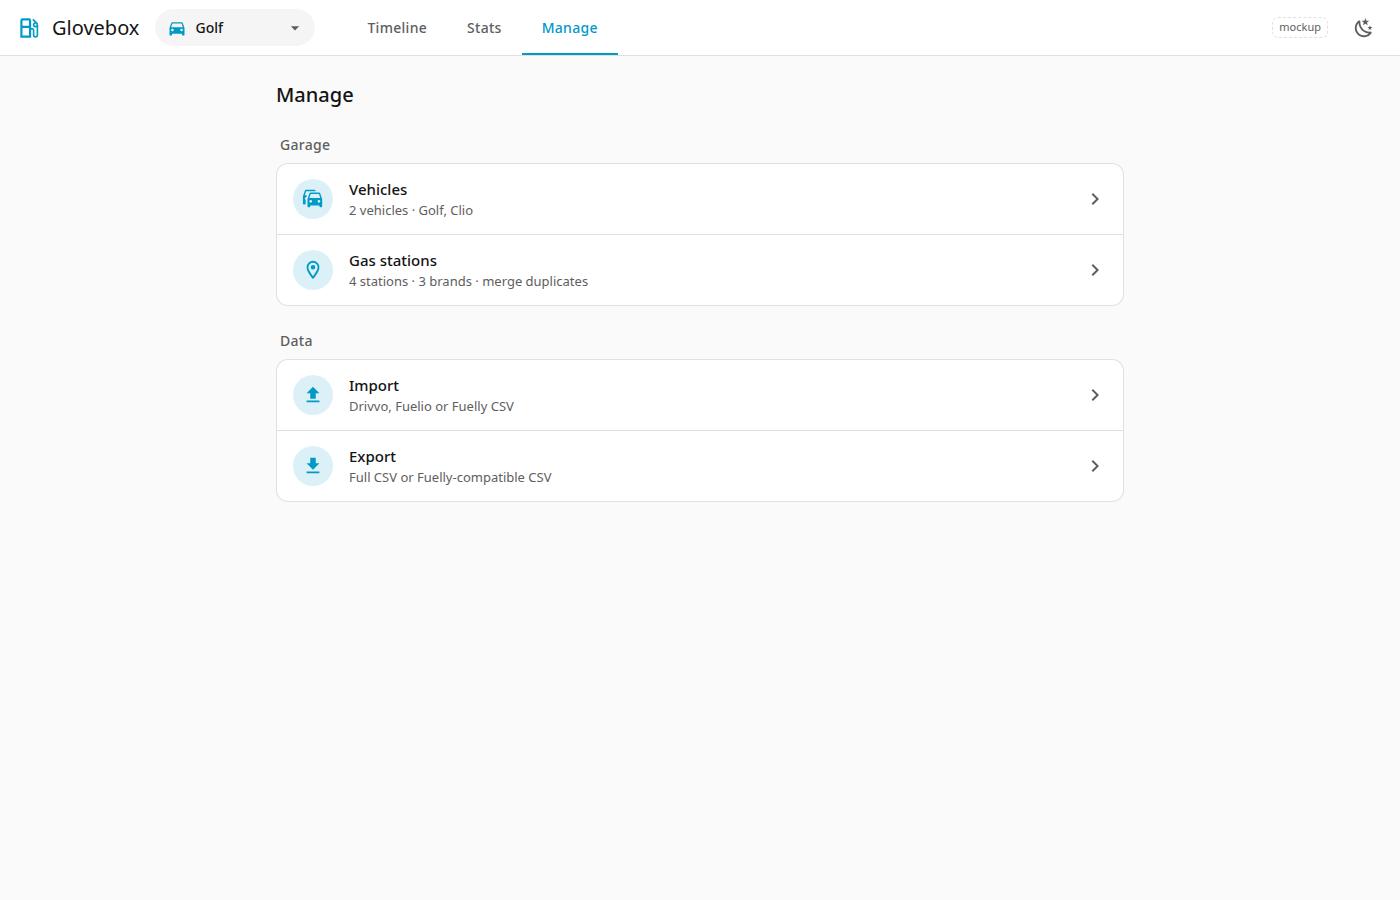
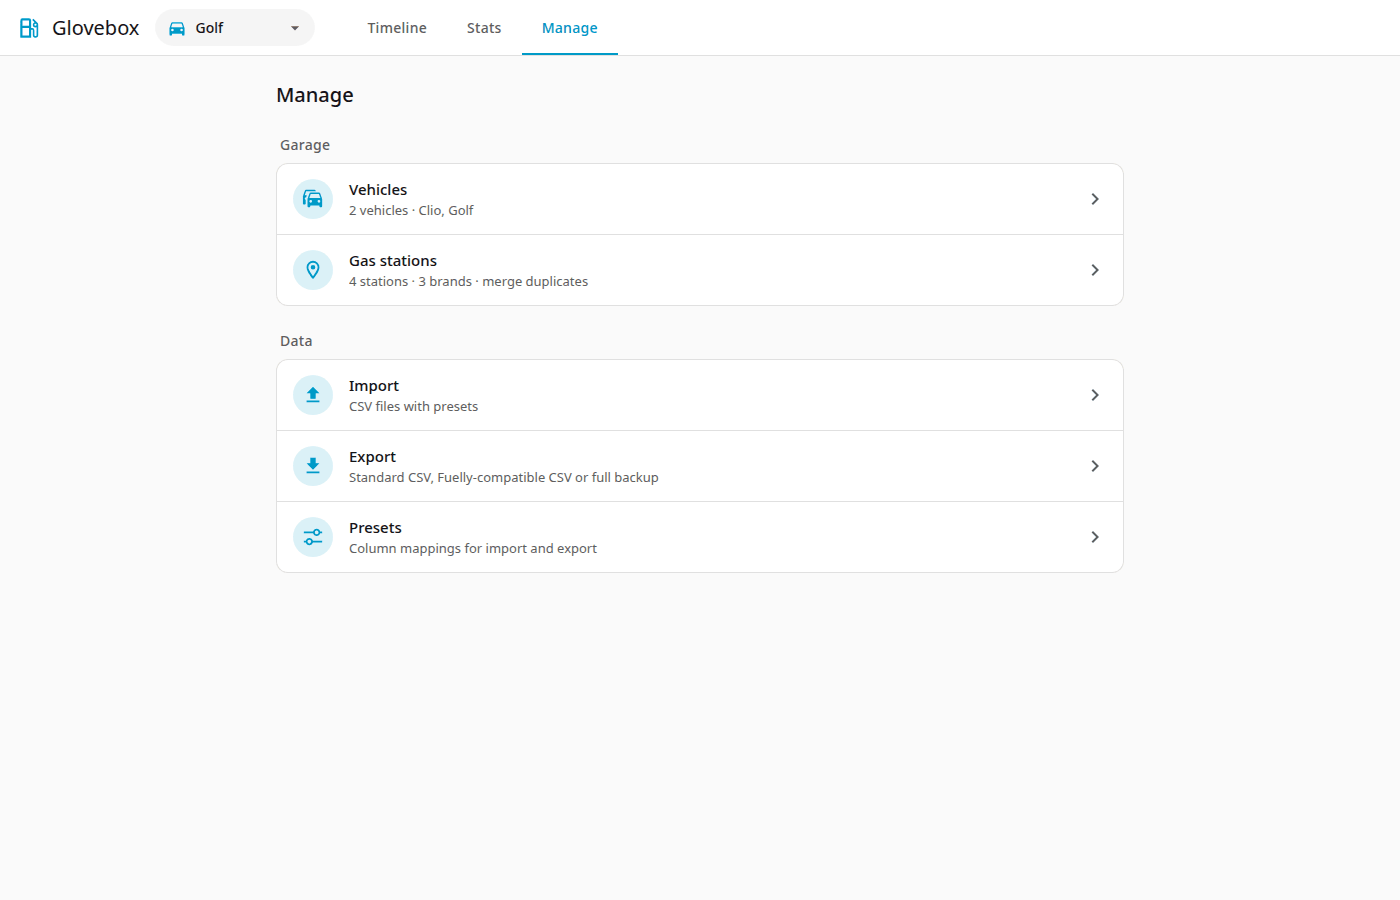
README, docs and screenshots for 0.2.0

Changed region(s): [[0.1843, 0.5289, 0.4607, 0.6222], [0.2457, 0.4356, 0.3686, 0.4667], [0.3071, 0.2178, 0.3379, 0.2489]]

diff --git a/src/glovebox/web/templates/presets/index.html b/src/glovebox/web/templates/presets/index.html
@@ -37,6 +37,6 @@
     <label for="i-file">Preset file (TOML)</label>
     <input id="i-file" type="file" name="file" accept=".toml,text/plain" required>
   </div>
-  <div><button type="submit" class="btn primary">{{ icon('upload', 18) }}Upload preset</button></div>
+  <div><button type="submit" class="btn primary with-icon">{{ icon('upload', 18) }}Upload preset</button></div>
 </form>
 {% endblock %}

diff --git a/src/glovebox/formatdocs.py b/src/glovebox/formatdocs.py
@@ -247,7 +247,7 @@ def render_presets_markdown() -> str:
         "A preset describes how one CSV layout maps onto the standard fields: "
         "which source column feeds which field, and how dates, numbers and "
         "units are written. Presets are TOML files. You can create and edit "
-        "them in the app (**Manage → Import**); this page lists every key and "
+        "them in the app (**Manage → Presets**; a mapping is saved from the import preview); this page lists every key and "
         "the presets that ship with Glovebox. For the target fields see "
         "[Standard CSV format](standard-format.md).",
         "",

diff --git a/README.md b/README.md
@@ -1,12 +1,45 @@
+<p align="center"><img src="addon/glovebox/icon.png" alt="Glovebox" width="96" height="96"></p>
+
 # Glovebox
 
-Self-hosted tracker for car running costs (fuel, maintenance, insurance and registration) with statistics, CSV import (Drivvo, Fuelio, Fuelly) and export. Runs as a Home Assistant add-on or as a standalone Docker container.
+**Self-hosted tracker for what your cars cost to run: fuel, service, insurance and registration, with statistics.**
+
+[![Tests](https://github.com/domengorjup/glovebox/actions/workflows/tests.yml/badge.svg)](https://github.com/domengorjup/glovebox/actions/workflows/tests.yml)
+[![Docs](https://github.com/domengorjup/glovebox/actions/workflows/docs.yml/badge.svg)](https://github.com/domengorjup/glovebox/actions/workflows/docs.yml)
+[![Licence: MIT](https://img.shields.io/github/license/domengorjup/glovebox)](LICENSE)
+[![Latest release](https://img.shields.io/github/v/tag/domengorjup/glovebox?label=release)](https://github.com/domengorjup/glovebox/tags)
+
+Documentation: **<https://domengorjup.github.io/glovebox/>**
+
+<p align="center">
+  <img src="docs/assets/screenshots/timeline-all-desktop-light.png" alt="Glovebox Timeline on a desktop" width="62%">
+  <img src="docs/assets/screenshots/timeline-all-phone-light.png" alt="Glovebox Timeline on a phone" width="22%">
+</p>
+<p align="center">
+  <img src="docs/assets/screenshots/timeline-all-desktop-dark.png" alt="Glovebox Timeline, dark theme" width="62%">
+</p>
+<p align="center">
+  <img src="docs/assets/screenshots/stats-desktop-light.png" alt="Glovebox Stats" width="48%">
+  <img src="docs/assets/screenshots/stats-desktop-dark.png" alt="Glovebox Stats, dark theme" width="48%">
+</p>
+
+## Features
+
+- Refuelling, service and other expenses (insurance, registration, parking) for any number of vehicles.
+- Statistics: consumption between full tanks, cost per km, monthly costs, price comparison by gas station and brand.
+- Configurable CSV import: a column mapping step with presets (Fuelly, Fuelio, Drivvo, your own), a preview before anything is written, and undo per import.
+- A documented standard CSV format, a Fuelly-compatible export and a full backup ZIP.
+- Looks like Home Assistant and follows its light and dark theme; opens in the sidebar through Ingress, no separate login.
+- Read-only stats API for Home Assistant sensors.
+- Runs as a Home Assistant add-on or as a standalone Docker container; the data is one SQLite file.
 
 ## Install as a Home Assistant add-on
 
-1. Settings, Add-ons, Add-on store, menu, Repositories: add this repository's URL.
-2. Install "Glovebox". The image is built locally on the HA host from `addon/glovebox/Dockerfile`.
-3. Start it and enable "Show in sidebar".
+[![Add the repository to Home Assistant](https://my.home-assistant.io/badges/supervisor_add_addon_repository.svg)](https://my.home-assistant.io/redirect/supervisor_add_addon_repository/?repository_url=https%3A%2F%2Fgithub.com%2Fdomengorjup%2Fglovebox)
+
+Press the button, or add the repository by hand: **Settings > Add-ons > Add-on store > menu (three dots) > Repositories**, paste `https://github.com/domengorjup/glovebox` and click **Add**. In Home Assistant 2026.6 and later add-ons are called apps: **Settings > Apps > Install app > menu > Repositories**.
+
+Then install **Glovebox** (the image is built on your Home Assistant host, so the first install takes a few minutes), start it and enable **Show in sidebar**.
 
 Options and details: [addon/glovebox/DOCS.md](addon/glovebox/DOCS.md).
 
@@ -38,7 +71,7 @@ Without `GLOVEBOX_PASSWORD` there is no login: put a reverse proxy in front if t
 
 ## Import notes
 
-Import and export are on their own pages. Files without a vehicle name ask which vehicle to use. For Fuelly files the `tags` column is imported as the gas station name. Re-importing a file is a no-op and each import can be undone.
+Import is under Manage, Import (upload, map columns, preview, confirm); export is under Manage, Export. Files without a vehicle name ask which vehicle to use. For Fuelly files the `tags` column is imported as the gas station name. Re-importing a file is a no-op and each import can be undone.
 
 ## Backup and restore
 

diff --git a/docs/user/import.md b/docs/user/import.md
@@ -2,18 +2,22 @@
 
 Go to **Manage → Import**.
 
-![Import preview](../assets/screenshots/import-preview-desktop-light.png)
+![Import preview](../assets/screenshots/import-mapping-desktop-light.png)
 
 Every import works the same way: a **preset** says which column of your file feeds which Glovebox field and how dates, numbers and units are written. Glovebox ships presets for several apps and for its own [standard CSV format](standard-format.md). You can adjust a preset for a single import and save the result as your own preset. See [Presets](presets.md) for the list and for every key of the preset file.
 
 ## Steps
 
-1. **Upload** a CSV file, or a ZIP of CSV files. Glovebox reads it and selects the best-fitting preset. It changes nothing yet.
-2. **Map columns.** Check the preset, the file settings (encoding, delimiter, header row, section) and the value formats (date pattern, decimal and thousands separators, units). Each Glovebox field takes a column of your file, a constant value, or nothing. Rarely used fields are under **More fields**. A file that no preset fits starts as a custom mapping; the required fields (`type`, `date`, and `odometer_km` for refuels, `total` and `title` for expenses) must be mapped before you can go on.
-3. **Preview.** It shows the preset and its note, record counts, the vehicles found, duplicates, rows that are left out and why, and warnings. Nothing is written yet.
+1. **Upload**: choose a CSV file, or a ZIP of CSV files, and press **Upload and map**. Glovebox reads it and selects the best-fitting preset. It changes nothing yet.
+2. **Map columns.** (Screenshot above.) Check the preset, the file settings (encoding, delimiter, header row, section) and the value formats (date pattern, decimal and thousands separators, units). Each Glovebox field takes a column of your file, a constant value, or nothing. Rarely used fields are under **More fields**. A file that no preset fits starts as a custom mapping; the required fields (`type`, `date`, and `odometer_km` for refuels, `total` and `title` for expenses) must be mapped before you can go on.
+3. **Preview.** (Screenshot below.) It shows the preset and its note, record counts, the vehicles found, duplicates, rows that are left out and why, and warnings. Nothing is written yet.
 4. **Answer questions** if there are any (see below), then press **Import now**. All records are added together as one **import batch**. The Import page then shows how many were added, with an **Undo** button. If every row is already present, the preview says so and offers no **Import now**; no empty batch is created.
 
-Standard files and full backups: a file in the standard format picks the **Glovebox** preset; a full backup goes straight to the preview.
+![Import preview](../assets/screenshots/import-preview-desktop-light.png)
+
+Standard files and full backups: a file in the standard format picks the **Glovebox** preset; a full backup (a ZIP with a `datapackage.json`) goes straight to the preview.
+
+![Import done](../assets/screenshots/import-done-desktop-light.png)
 
 ## Supported layouts
 
@@ -46,7 +50,9 @@ A ZIP can hold `vehicles.csv` and/or `stations.csv` next to the records, with or
 
 ## Save a mapping as a preset
 
-Under the preview, **Save this mapping as a preset** stores it under a name you choose. Next time a file with the same columns is uploaded, your preset is selected. Shipped presets are never changed: editing one and saving creates your own copy. Presets can be downloaded, uploaded and deleted on the **Presets** page (**Manage → Presets**).
+Under the preview, **Save this mapping as a preset** stores it under a name you choose. Next time a file with the same columns is uploaded, your preset is selected. Shipped presets are never changed: editing one and saving creates your own copy. Presets can be downloaded, uploaded and deleted on the **Presets** page (**Manage → Presets**, or the **Presets** button on the Import page).
+
+![Presets page](../assets/screenshots/presets-desktop-light.png)
 
 ## Good to know
 

diff --git a/docs/user/export.md b/docs/user/export.md
@@ -2,14 +2,17 @@
 
 Go to **Manage → Export**.
 
+![Export](../assets/screenshots/export-desktop-light.png)
+
+The page has two downloads, **CSV file** and **Full backup**, plus the format description.
+
 | Export | Content |
 |---|---|
-| **Standard CSV** | One `records.csv`-style file with all refuellings and expenses, in the documented [standard format](standard-format.md). |
-| **Fuelly-compatible CSV** | Refuellings only, one CSV per vehicle (zipped if more than one has records; a vehicle without refuellings gets no file). Expenses are left out. The station goes into the `tags` column. |
-| **Custom CSV** | Your own layout: pick the columns and their headers, the delimiter, the decimal separator, the date pattern and the units. Save it as a preset to reuse it (and to import files in that layout). |
-| **Full backup** | A ZIP with `records.csv`, `vehicles.csv`, `stations.csv` and `datapackage.json`. Everything, including stations without refuellings. |
+| **CSV file** | Choose the **Format** and press **Download CSV**. **Glovebox** is the documented [standard format](standard-format.md) with all refuellings and expenses in one file. **Fuelly (metric)** gives refuellings only, one CSV per vehicle (zipped if more than one has records; a vehicle without refuellings gets no file). Expenses are left out and the station goes into the `tags` column. Your own saved presets that can export appear in the list too. |
+| **Customise columns and format** | Under the format: pick the columns and their headers, the delimiter, the decimal separator, the date pattern and the units, then download, or press **Save preset** to reuse the layout (and to import files in that layout). |
+| **Download full backup** | A ZIP with `records.csv`, `vehicles.csv`, `stations.csv` and `datapackage.json`. Everything, including stations without refuellings. |
 
-Tick vehicles to export only those; with none ticked, all vehicles are exported. The page also offers the description of the standard format as a Data Package descriptor.
+Tick vehicles to export only those; with none ticked, all vehicles are exported. **Download format description** gives the description of the standard format as a Data Package descriptor (JSON).
 
 If two vehicles share a name (an archived one and an active one), the archived one is written as `Name (archived)` so that the files stay unambiguous. The page tells you when this happens.
 
@@ -17,7 +20,7 @@ If two vehicles share a name (an archived one and an active one), the archived o
 
 The full backup is your portable backup.
 
-To restore: start Glovebox on an empty data folder, then import the ZIP on the Import page. It goes straight to the preview. Vehicles with their details, stations, refuellings and expenses come back as they were, including which price figure was derived and where each record came from.
+To restore: start Glovebox on an empty data folder, then import the ZIP on the Import page (**Manage → Import**). It goes straight to the preview. Vehicles with their details, stations, refuellings and expenses come back as they were, including which price figure was derived and where each record came from.
 
 The same ZIP, without `datapackage.json`, is also a normal import with vehicle and station details; see [Import](import.md).
 

diff --git a/addon/glovebox/DOCS.md b/addon/glovebox/DOCS.md
@@ -4,7 +4,7 @@ Track the running costs of your cars: refuelling, maintenance, insurance and reg
 
 ## Installation
 
-1. In Home Assistant open Settings, Add-ons, Add-on store, menu (three dots), Repositories.
+1. In Home Assistant open Settings, Add-ons, Add-on store, menu (three dots), Repositories. In newer versions add-ons are called apps: Settings, Apps, Install app, menu, Repositories.
 2. Add the repository URL of this project and close the dialog.
 3. Select Glovebox, then Install. The image is built on your Home Assistant host, so the first install takes a few minutes.
 4. Start the add-on. Optionally enable "Show in sidebar". The panel "Glovebox" opens the app through Ingress.
@@ -65,7 +65,7 @@ The SQLite database is stored in the add-on's `/data` folder, which survives res
 
 ## Importing
 
-Import a CSV (or a ZIP of CSV files, such as a full backup) on the Import page. A preset maps the columns; you can adjust it in the mapping step. The preview shows what would be added and writes nothing until you confirm. Re-importing the same file adds nothing, and every import can be undone from the batch list.
+Import a CSV (or a ZIP of CSV files, such as a full backup) under Manage, Import. A preset maps the columns; you can adjust it in the mapping step and save your own mappings as presets (Manage, Presets). The preview shows what would be added and writes nothing until you confirm. Re-importing the same file adds nothing, and every import can be undone from the batch list.
 
 - Files without a vehicle name (Drivvo, Fuelly, Fuelio) ask which vehicle the records belong to.
 - Fuelly: the `tags` column is taken as the gas station name (the whole cell, so several tags become one station), which is how our own Fuelly export keeps the station. Brands are never guessed.
@@ -74,7 +74,7 @@ Import a CSV (or a ZIP of CSV files, such as a full backup) on the Import page. 
 ## Known limitations
 
 - The web app is only reachable through Ingress (no app login); the optional API port serves the stats API only. Anyone who can open the Home Assistant sidebar entry can use the app.
-- Expenses need a title (for example the service type) and may have an optional coverage period; the dashboard can spread such costs over the period or show them as paid.
+- Expenses need a title (for example the service type) and may have an optional coverage period; the Stats page can spread such costs over the period or show them as paid.
 - Only the `amd64` and `aarch64` architectures are supported.
 
 ## Support

diff --git a/docs/dev/development.md b/docs/dev/development.md
@@ -17,7 +17,7 @@ uv run pytest
 
 ## Screenshots
 
-Screenshots are taken with a headless browser (Playwright with Chromium) against a running app with demo data. The images used by these docs and the exact states needed are listed in `docs/assets/screenshots/NEEDED.md`. Use a 1400x900 viewport for desktop and 390x844 for phone.
+Screenshots are taken with a headless browser (Playwright with Chromium) against a running app that holds fictional demo data. `.dev/make_demo_data.py` regenerates the demo files in `.dev/demo/` (two vehicles, about 14 months of records, four stations); import `.dev/demo/demo.zip` through the Import page. Use a fresh `DATA_DIR`, a 1400x900 viewport for desktop and 390x844 for phone, and never real data. The images in `docs/assets/screenshots/` are named `<page>-<desktop|phone>-<light|dark>.png`; reduce them to a palette (for example with Pillow `quantize`) to keep the repository small.
 
 ## Documentation
 
@@ -26,7 +26,9 @@ uv run --group docs mkdocs serve          # live preview at http://127.0.0.1:800
 uv run --group docs mkdocs build --strict # build into site/ (git-ignored)
 ```
 
-The docs dependencies are in the separate `docs` dependency group, so `uv sync` does not install them. There is no automatic publishing yet.
+The docs dependencies are in the separate `docs` dependency group, so `uv sync` does not install them. The `Docs` workflow builds the site and publishes it to GitHub Pages when `docs/`, `mkdocs.yml` or `README.md` change on `master`; the `Tests` workflow runs `pytest`.
+
+`docs/user/standard-format.md` and `docs/user/presets.md` are generated: run `uv run python -m glovebox.formatdocs` after changing `standard.py` or a preset (`--check` verifies them).
 
 ## Dependencies
 

diff --git a/docs/user/records.md b/docs/user/records.md
@@ -1,14 +1,19 @@
 # Adding and editing records
 
-Tap **+** and choose the record type. Every form has a **Vehicle** dropdown. It starts with the selected vehicle, or with the last specific vehicle when *All vehicles* is selected.
+Tap **+** on the Timeline and choose the record type (**Refuelling**, **Service** or **Expense**). Every form has a **Vehicle** dropdown. It starts with the selected vehicle, or with the last specific vehicle when *All vehicles* is selected.
 
 ![Add menu on a phone](../assets/screenshots/add-chooser-phone-light.png){ width="260" }
+![Add menu on a desktop](../assets/screenshots/add-chooser-desktop-light.png)
 
 To edit or delete a record, open it from the Timeline.
 
 ## Refuelling
 
-See [First steps](first-steps.md#2-add-a-refuelling). Fields: vehicle, date, odometer, any two of litres / price per litre / total, station, full tank, missed previous fill-up, notes.
+See [First steps](first-steps.md#2-add-a-refuelling). On a phone the form fills the screen:
+
+![Refuelling form on a phone](../assets/screenshots/refuel-form-phone-light.png){ width="260" }
+
+ Fields: vehicle, date, odometer, any two of litres / price per litre / total, station, full tank, missed previous fill-up, notes.
 
 ## Service
 
@@ -16,7 +21,7 @@ For maintenance: oil change, tyres, repairs. Fields: vehicle, date, odometer (op
 
 ## Expense
 
-For everything else. Choose a type:
+For everything else. Choose a type with the **Type** switch:
 
 - **Insurance**
 - **Registration**

diff --git a/docs/user/timeline.md b/docs/user/timeline.md
@@ -2,7 +2,7 @@
 
 The Timeline lists all records, newest first, grouped by month. Each month shows its number of entries and total cost.
 
-![Timeline on a phone](../assets/screenshots/timeline-phone-light.png){ width="260" }
+![Timeline on a phone](../assets/screenshots/timeline-all-phone-light.png){ width="260" }
 
 ## Summary cards
 
@@ -21,7 +21,9 @@ The first four are shown by default.
 
 ### Customising
 
-Click **Customise** next to the summary title and tick the cards you want. Glovebox remembers your choice on the server, so it is the same on every device.
+Click **Customise** next to the summary title and tick the cards you want. With **All vehicles** selected, the same popover also has a **Summaries** list to show or hide the combined summary and each vehicle's summary. Glovebox remembers your choices on the server, so they are the same on every device.
+
+![Customise open](../assets/screenshots/timeline-customise-desktop-light.png)
 
 ## Filters
 
@@ -32,5 +34,7 @@ Click a record to edit or delete it.
 ## All vehicles
 
 Choose **All vehicles** in the top dropdown to see every vehicle's records in one list. The summary then shows a combined card set and a summary for each vehicle. Each record shows which vehicle it belongs to.
+
+![Timeline of one vehicle](../assets/screenshots/timeline-vehicle-desktop-light.png)
 
 The vehicle you pick is remembered. When you add a record while *All vehicles* is selected, the form starts with the last specific vehicle you used.

diff --git a/docs/dev/architecture.md b/docs/dev/architecture.md
@@ -9,6 +9,7 @@ Glovebox is one Python app (FastAPI) that serves server-rendered HTML pages and 
 | `web/` | HTML routes, Jinja2 templates, vendored static files. Forms work through normal POST requests; JavaScript only enhances them (charts, dialogs). |
 | `api/v1.py` | Read-only stats API. |
 | `services/records.py` | Create, read, update, delete and validation. Derives the third price figure. |
+| `services/preferences.py` | Server-side UI preferences (selected vehicle, Timeline cards and summaries). |
 | `services/stats.py` | Consumption, cost, allocation and station statistics. Used by both the HTML pages and the API, so their numbers cannot differ. |
 | `importers/` | One pipeline and one preset-driven engine; presets are TOML files in `presets/`. |
 | `exporters/` | Preset-driven CSV export and the full backup ZIP. |
@@ -42,10 +43,7 @@ All templates build URLs through `urls.url(request, path)` so the prefix is alwa
 
 ## Preferences
 
-The UI remembers the selected vehicle and the choice of summary cards on the server, in a small preferences table, so they are the same on every device.
-
-!!! note
-    The preferences table belongs to the rebuilt UI. Check `models.py` and `migrations/` for the exact schema.
+The UI remembers the selected vehicle, the choice of Timeline summary cards and the hidden summaries on the server, in the key/value `setting` table, so they are the same on every device.
 
 ## Database
 

diff --git a/docs/user/stations.md b/docs/user/stations.md
@@ -8,12 +8,12 @@ Stations are created when you add a refuelling ("New station") or when you impor
 
 A station has a name and an optional brand, for example station "Petrol Tržaška" with brand "Petrol". Statistics can group by brand to compare companies.
 
-Brands are set **by hand only**. Glovebox never guesses a brand from a name. You can set a brand on one station, or select several stations and set the brand for all of them at once.
+Brands are set **by hand only**. Glovebox never guesses a brand from a name. You can set a brand on one station, or tick several stations, type a brand and press **Set brand** to set it for all of them at once (**Clear brand** removes it).
 
 ## Renaming
 
-Open a station to change its name, brand or location text.
+Open a station to change its name, location or brand.
 
 ## Merging duplicates
 
-Imports and typing errors often create duplicates ("PETROL Trzaska" and "Petrol Tržaška"). Use **Merge stations**: all refuellings of the duplicate move to the station you keep, and the duplicate is removed.
+Imports and typing errors often create duplicates ("PETROL Trzaska" and "Petrol Tržaška"). Use the **Merge duplicates** section at the bottom of the page: pick the duplicate under *Merge this station...* and the one to keep under *...into this one*, then press **Merge**. All refuellings of the duplicate move to the station you keep, and the duplicate is removed.

diff --git a/docs/user/statistics.md b/docs/user/statistics.md
@@ -7,15 +7,15 @@ Open the **Stats** tab. Everything follows the vehicle chosen in the top dropdow
 ## Filters
 
 - **What**: All, Refuelling, Service or Expense.
-- **When**: 3 months, 12 months, this year, all time, or a custom date range.
-- **Refine**: a single station or brand (for refuelling), or an expense type.
-- **Costs**: Spread or As paid (see below). Shown when expenses are included.
+- **When**: **3 M**, **12 M**, **This year**, **All**, or **Custom** (a from and to date).
+- **Refine**: shown for Refuelling (a single station or brand) and Expense (an expense type).
+- **Costs**: **Spread** or **As paid** (see below). Shown when expenses are included.
 
-The summary numbers, charts and tables all update together.
+The summary numbers, charts and tables all update together. The page shows total cost, cost per km, average consumption and distance, then the consumption chart, the monthly cost chart and the price table.
 
-On phones the charts sit below the filters; scroll down to see them.
+On phones everything is in one column; scroll down to see the charts.
 
-![Stats charts on a phone](../assets/screenshots/stats-charts-phone-light.png){ width="260" }
+![Stats charts on a phone](../assets/screenshots/stats-phone-light.png){ width="260" }
 
 ## How consumption is calculated
 
